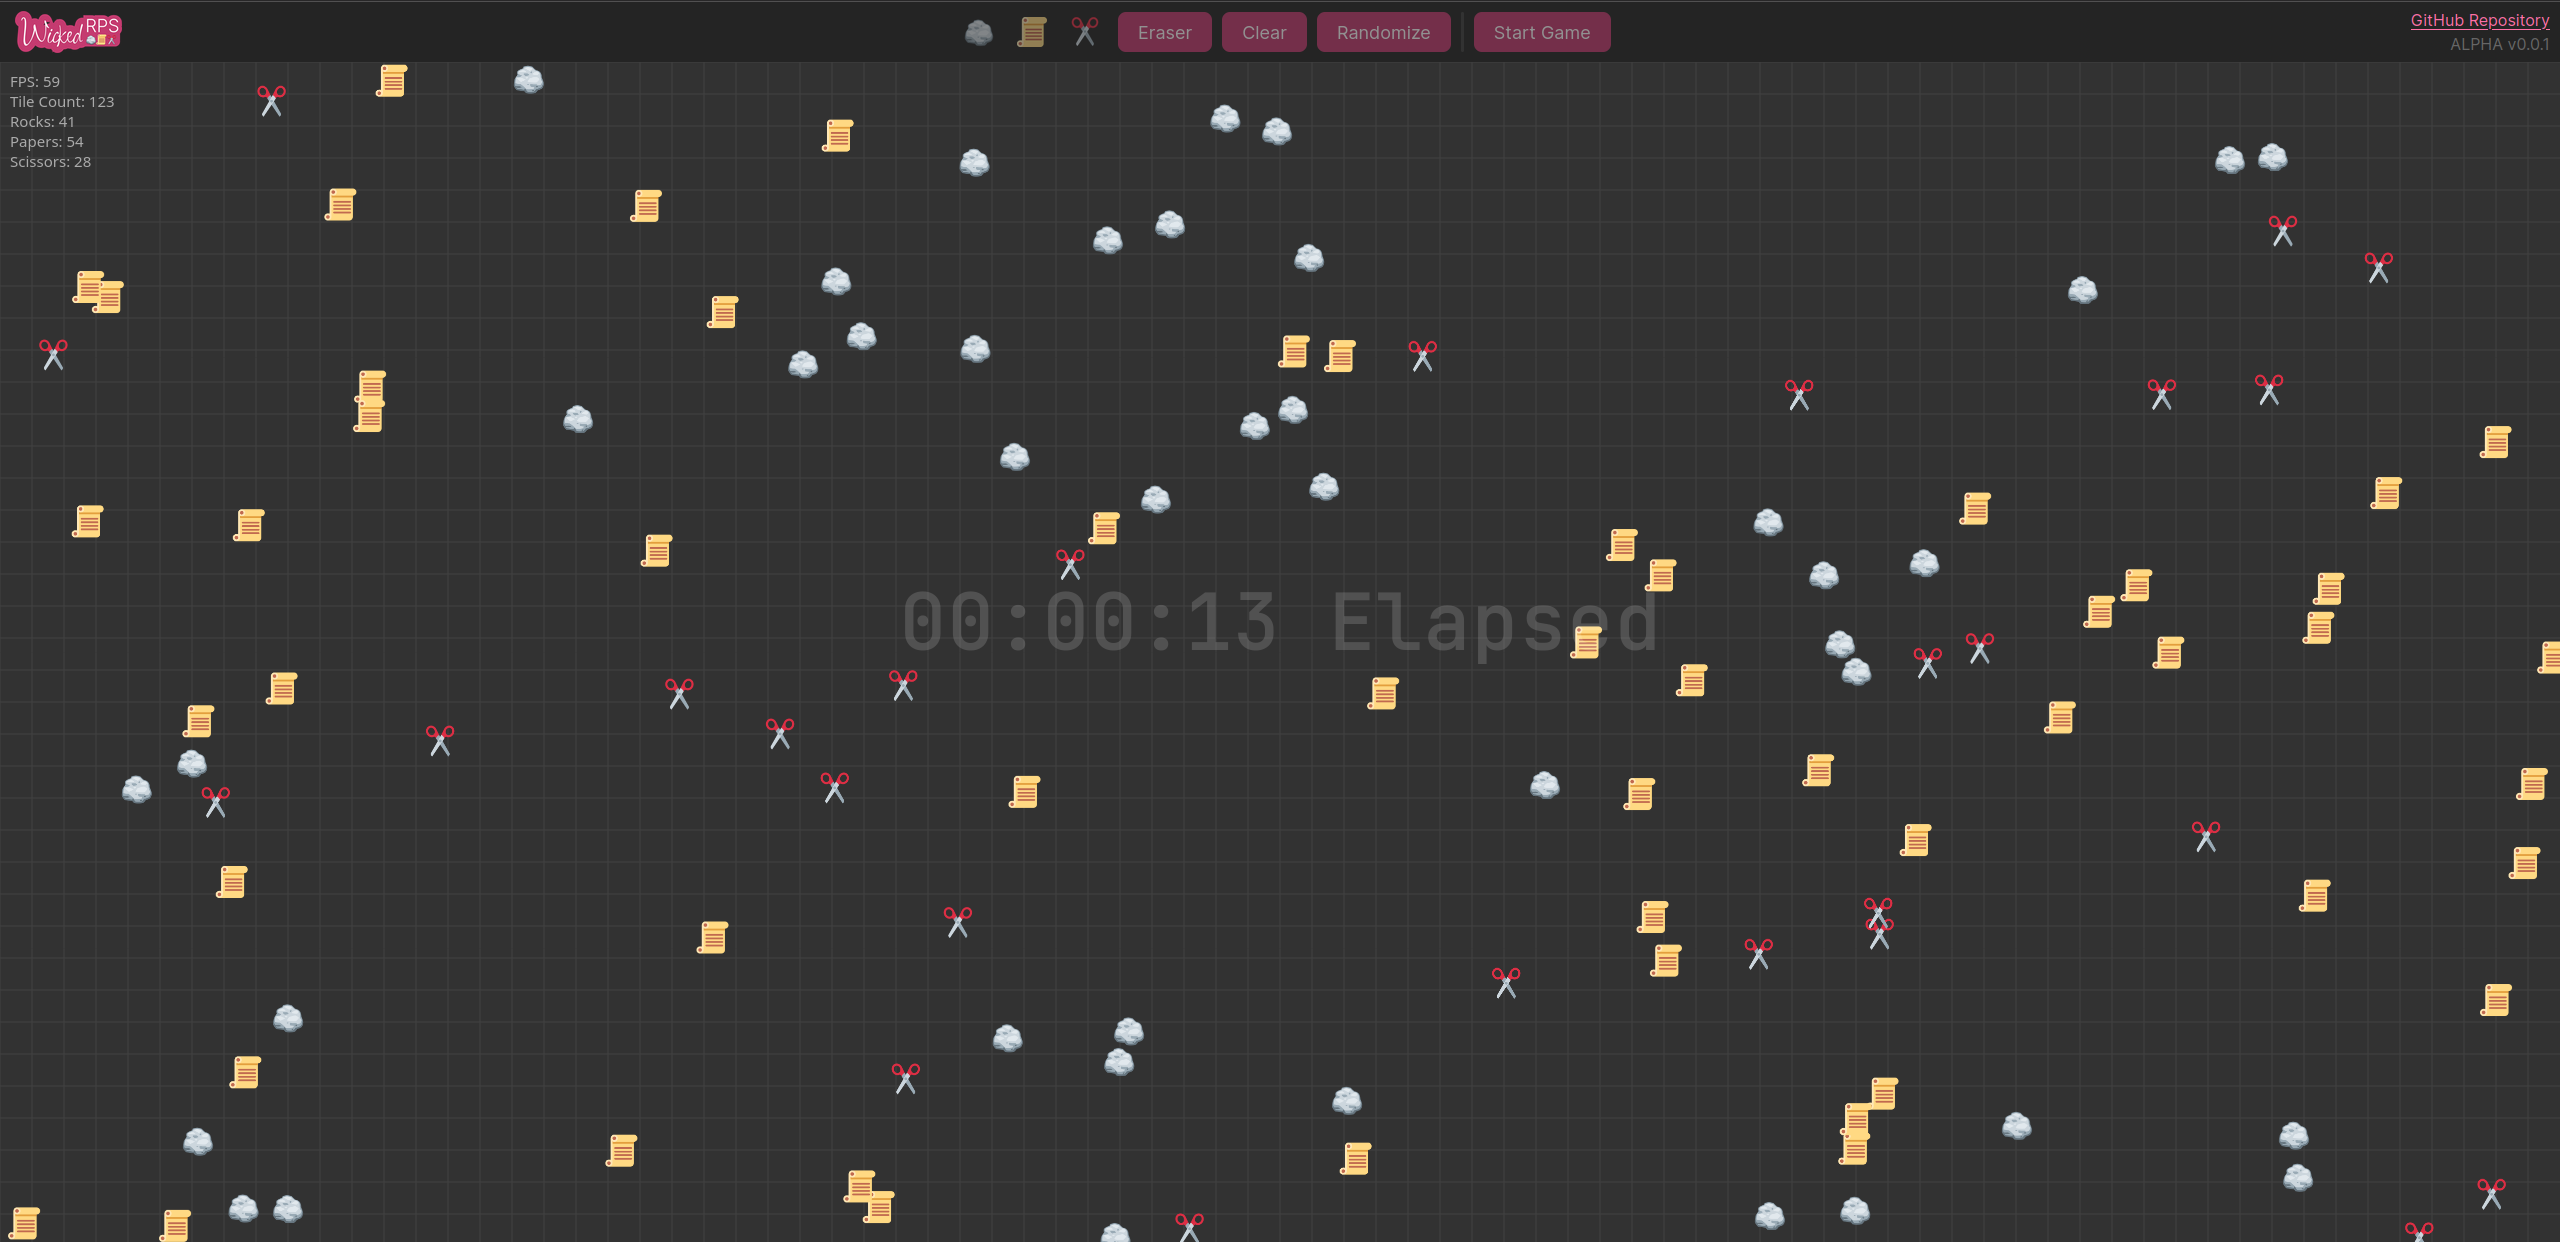
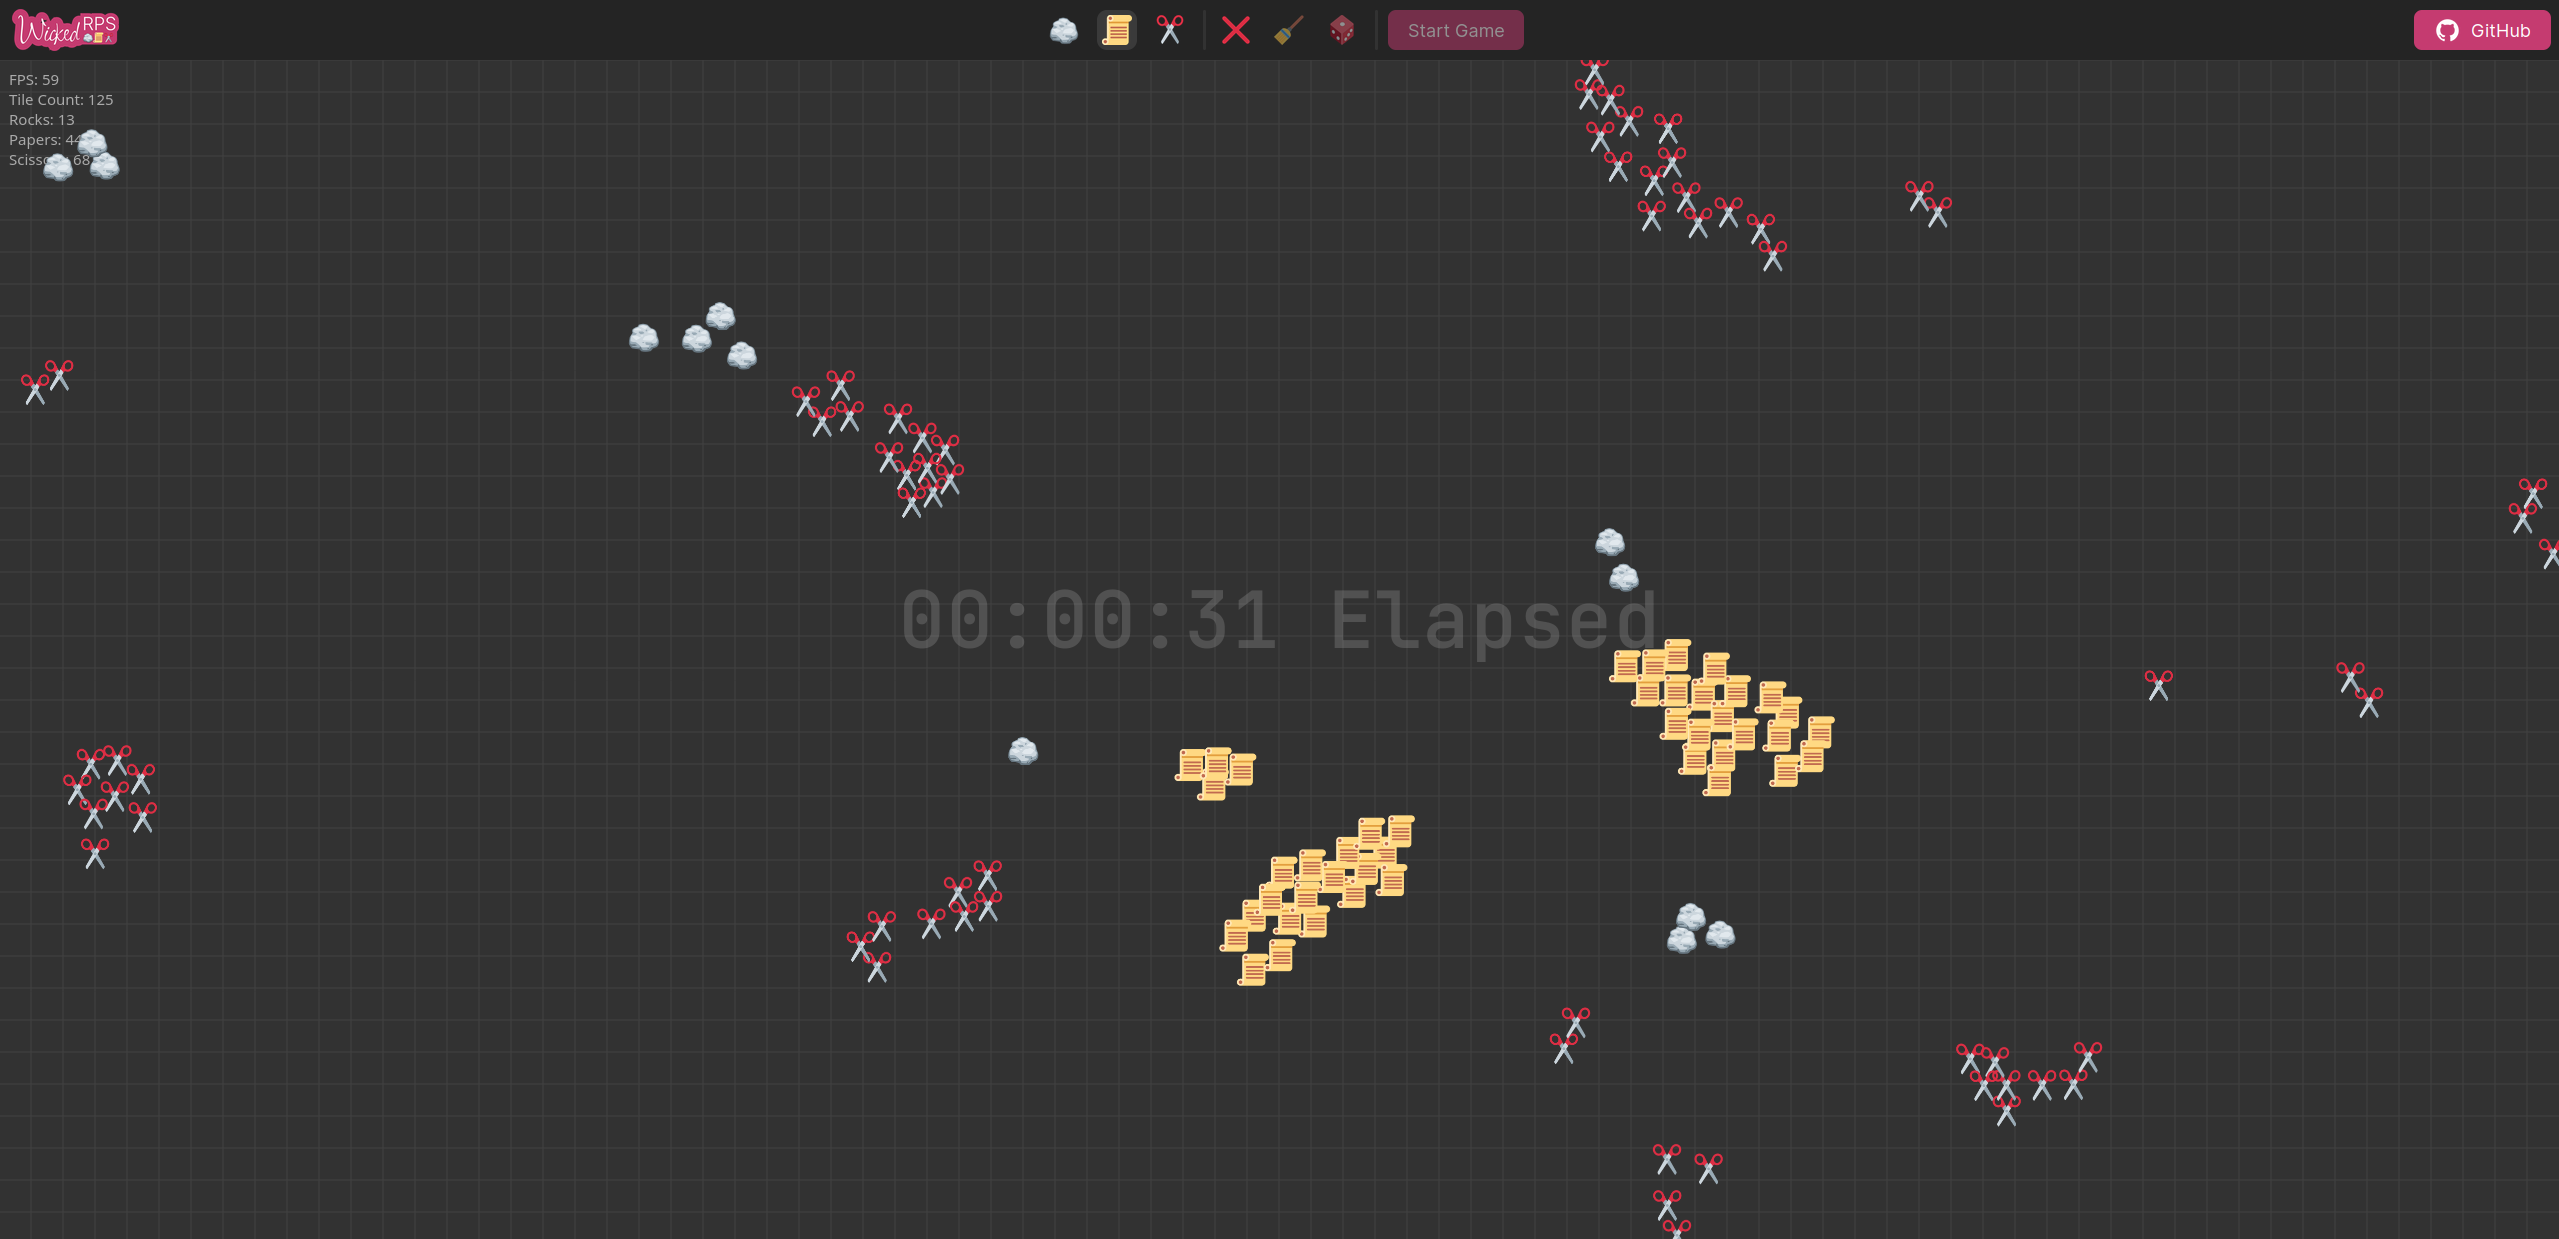
Update README

diff --git a/README.md b/README.md
@@ -20,3 +20,7 @@ If you like this game and like what I do over at [my website](https://qewer.dev)
         border="0"
         alt="Buy Me a Coffee at ko-fi.com"
 /></a>
+
+![banner](https://github.com/qewer33/WickedRPS/blob/main/assets/screenshot_1.png?raw=true)
+
+![banner](https://github.com/qewer33/WickedRPS/blob/main/assets/screenshot.png?raw=true)
